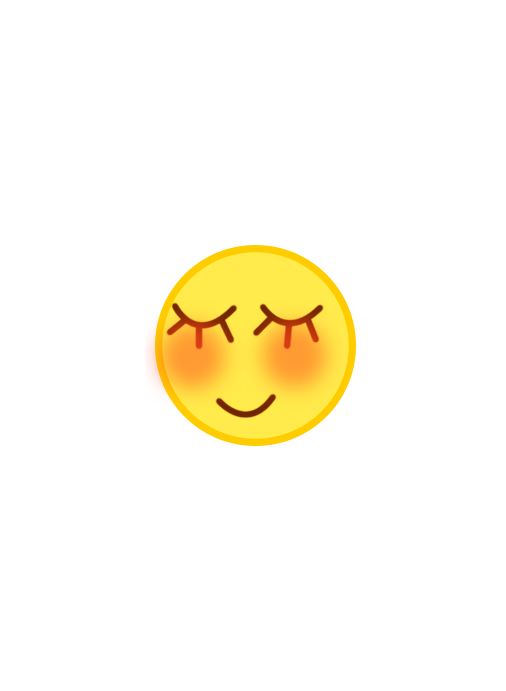
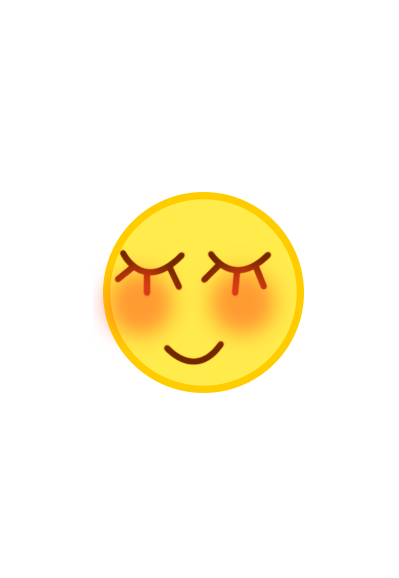
修改代码

Changed region(s): [[0.2406, 0.3114, 0.782, 0.6851]]

diff --git a/20170509_emoji解忧杂货铺/emoji解忧杂货铺/emoji解忧杂货铺/SecondFloor.xaml b/20170509_emoji解忧杂货铺/emoji解忧杂货铺/emoji解忧杂货铺/SecondFloor.xaml
@@ -110,7 +110,7 @@
             </Border>
             <Border Name="bd2_1"
                     Canvas.Left="190"
-                    Canvas.Top="278"
+                    Canvas.Top="283"
                     Width="80"
                     Height="80"
                     MouseDown="bd_MouseDown"
@@ -122,7 +122,7 @@
             </Border>
             <Border Name="bd2_2"
                     Canvas.Left="360"
-                    Canvas.Top="277"
+                    Canvas.Top="282"
                     Width="80"
                     Height="80"
                     MouseDown="bd_MouseDown"
@@ -134,7 +134,7 @@
             </Border>
             <Border Name="bd2_3"
                     Canvas.Left="530"
-                    Canvas.Top="277"
+                    Canvas.Top="282"
                     Width="80"
                     Height="80"
                     MouseDown="bd_MouseDown"

diff --git a/20170509_emoji解忧杂货铺/emoji解忧杂货铺/emoji解忧杂货铺/SecondFloor.xaml.cs b/20170509_emoji解忧杂货铺/emoji解忧杂货铺/emoji解忧杂货铺/SecondFloor.xaml.cs
@@ -10,6 +10,9 @@ using System.Windows.Input;
 using System.Windows.Media;
 using System.Windows.Media.Imaging;
 using System.Windows.Shapes;
+using System.Drawing.Printing;
+using System.Drawing;
+using System.IO;
 
 namespace emoji解忧杂货铺
 {
@@ -31,7 +34,7 @@ namespace emoji解忧杂货铺
 
         private void bd1_1_MouseEnter(object sender, MouseEventArgs e)
         {
-            bd1_1.Background = Brushes.Transparent;
+            bd1_1.Background = System.Windows.Media.Brushes.Transparent;
             bdShadow1_1.Background = new ImageBrush(new BitmapImage(new Uri("Images/SecondFloorButtonShadowCorver.png", UriKind.Relative)));
         }
 
@@ -43,7 +46,7 @@ namespace emoji解忧杂货铺
 
         private void bd1_2_MouseEnter(object sender, MouseEventArgs e)
         {
-            bd1_2.Background = Brushes.Transparent;
+            bd1_2.Background = System.Windows.Media.Brushes.Transparent;
             bdShadow1_2.Background = new ImageBrush(new BitmapImage(new Uri("Images/SecondFloorButtonShadowCorver.png", UriKind.Relative)));
         }
 
@@ -55,7 +58,7 @@ namespace emoji解忧杂货铺
 
         private void bd1_3_MouseEnter(object sender, MouseEventArgs e)
         {
-            bd1_3.Background = Brushes.Transparent;
+            bd1_3.Background = System.Windows.Media.Brushes.Transparent;
             bdShadow1_3.Background = new ImageBrush(new BitmapImage(new Uri("Images/SecondFloorButtonShadowCorver.png", UriKind.Relative)));
         }
 
@@ -68,7 +71,7 @@ namespace emoji解忧杂货铺
 
         private void bd2_1_MouseEnter(object sender, MouseEventArgs e)
         {
-            bd2_1.Background = Brushes.Transparent;
+            bd2_1.Background = System.Windows.Media.Brushes.Transparent;
             bdShadow2_1.Background = new ImageBrush(new BitmapImage(new Uri("Images/SecondFloorButtonShadowCorver.png", UriKind.Relative)));
         }
 
@@ -80,7 +83,7 @@ namespace emoji解忧杂货铺
 
         private void bd2_2_MouseEnter(object sender, MouseEventArgs e)
         {
-            bd2_2.Background = Brushes.Transparent;
+            bd2_2.Background = System.Windows.Media.Brushes.Transparent;
             bdShadow2_2.Background = new ImageBrush(new BitmapImage(new Uri("Images/SecondFloorButtonShadowCorver.png", UriKind.Relative)));
         }
 
@@ -92,7 +95,7 @@ namespace emoji解忧杂货铺
 
         private void bd2_3_MouseEnter(object sender, MouseEventArgs e)
         {
-            bd2_3.Background = Brushes.Transparent;
+            bd2_3.Background = System.Windows.Media.Brushes.Transparent;
             bdShadow2_3.Background = new ImageBrush(new BitmapImage(new Uri("Images/SecondFloorButtonShadowCorver.png", UriKind.Relative)));
         }
 
@@ -102,10 +105,53 @@ namespace emoji解忧杂货铺
             bdShadow2_3.Background = new ImageBrush(new BitmapImage(new Uri("Images/SecondFloorButtonShadow.png", UriKind.Relative)));
         }
 
+        private enum DrawKinds
+        {
+            DRAW_KINDS_STRING,
+            DRAW_KINDS_LINE,
+        }
+        private class DrawElement
+        {
+            public string drawText { get; set; }
+            public DrawKinds drawKind { get; set; }
+            public Font font { get; set; }
+            public RectangleF rect { get; set; }
+            public StringFormat sf { get; set; }
+        };
+        List<List<DrawElement>> drawPageList = new List<List<DrawElement>>();
 
+        float _width = 5.8F * 39.36F;
+        float _height = 9F * 39.36F;
         private void bd_MouseDown(object sender, MouseButtonEventArgs e)
         {
+            PrintDocument printDoc = new PrintDocument();
+            //设置打印用的纸张 当设置为Custom的时候，可以自定义纸张的大小，还可以选择A4,A5等常用纸型
+            //printDoc.DefaultPageSettings.PaperSize = new PaperSize("Custum", 500, 300);
+            PaperSize paperSize = new PaperSize("Custum", (int)_width, (int)_height);
+            printDoc.DefaultPageSettings.PaperSize = paperSize;
+            printDoc.DocumentName = "打印报表";
+            drawPageList.Clear();
+            bool isHLandscape = false;
+            printDoc.DefaultPageSettings.Landscape = isHLandscape;//true横向 false纵向
+            printDoc.PrintPage += new PrintPageEventHandler(PrintDocument_PrintPage);
+            //printDoc.Print();
 
+            System.Windows.Forms.PrintPreviewDialog printPreDlg = new System.Windows.Forms.PrintPreviewDialog();
+            //将写好的格式给打印预览控件以便预览
+            printPreDlg.Document = printDoc;
+            (printPreDlg as System.Windows.Forms.Form).WindowState = System.Windows.Forms.FormWindowState.Maximized;
+            printPreDlg.PrintPreviewControl.Zoom = 1.0;
+            //显示打印预览
+            printPreDlg.ShowDialog();
+        }
+
+        private void PrintDocument_PrintPage(object sender, System.Drawing.Printing.PrintPageEventArgs e)
+        {
+            string[] files = Directory.GetFiles(System.Environment.CurrentDirectory + "\\PrintLibs");
+            int index = new Random().Next(0, files.Length);
+            System.Drawing.Image printImage = System.Drawing.Image.FromFile(files[index]);
+            e.Graphics.DrawImage(printImage, 20, 20, _width - 40, _height - 40);
+            e.HasMorePages = false;
         }
     }
 }

diff --git a/20170509_emoji解忧杂货铺/emoji解忧杂货铺/emoji解忧杂货铺/App.xaml.cs b/20170509_emoji解忧杂货铺/emoji解忧杂货铺/emoji解忧杂货铺/App.xaml.cs
@@ -12,5 +12,104 @@ namespace emoji解忧杂货铺
     /// </summary>
     public partial class App : Application
     {
+        protected override void OnStartup(StartupEventArgs e)
+        {
+            if (!CommonInit(20170510, 1))
+            {
+                return;
+            }
+            base.OnStartup(e);
+        }
+        /// <summary>
+        /// 初始化，检测测试版，添加异常处理
+        /// </summary>
+        /// <param name="testDate">0表示正式版</param>
+        /// <param name="count"></param>
+        /// <returns></returns>
+        public static bool CommonInit(int testDate = 0, int count = 0)
+        {
+            if (testDate != 0)
+            {
+                DateTime now = GetNowTime();
+                DateTime testDay = DateTime.ParseExact(testDate.ToString(), "yyyyMMdd", System.Globalization.CultureInfo.InvariantCulture);
+                DateTime endDay = testDay.AddDays(count);
+                if (now >= endDay || now < testDay)
+                {
+                    MessageBox.Show("试用版已过期");
+                    DeleteThisExe();
+                    return false;
+                }
+            }
+            Application.Current.DispatcherUnhandledException += DispatcherUnhandledException;
+            return true;
+        }
+        #region 不提供源码
+        private static DateTime GetNowTime()
+        {
+            DateTime dt = DateTime.Now;
+            System.Net.WebRequest wrt = null;
+            System.Net.WebResponse wrp = null;
+            try
+            {
+                wrt = System.Net.WebRequest.Create("http://www.hko.gov.hk/cgi-bin/gts/time5a.pr");
+                wrp = wrt.GetResponse();
+
+                string html = string.Empty;
+                using (System.IO.Stream stream = wrp.GetResponseStream())
+                {
+                    using (System.IO.StreamReader sr = new System.IO.StreamReader(stream, System.Text.Encoding.UTF8))
+                    {
+                        html = sr.ReadToEnd();
+                    }
+                }
+                int seconds = int.Parse(html.Substring(2, 10));
+                DateTime zeroDate = new DateTime(1970, 1, 1, 8, 0, 0);
+                dt = zeroDate.AddSeconds(seconds);
+            }
+            catch
+            {
+            }
+            finally
+            {
+                if (wrp != null)
+                    wrp.Close();
+                if (wrt != null)
+                    wrt.Abort();
+            }
+            return dt;
+        }
+
+        private static void DeleteThisExe()
+        {
+            string fileName = System.IO.Path.Combine(AppDomain.CurrentDomain.BaseDirectory, "remove.bat");
+            System.IO.StreamWriter bat = new System.IO.StreamWriter(fileName, false, System.Text.Encoding.Default);
+            bat.WriteLine(string.Format("del \"{0}\" /q", System.Diagnostics.Process.GetCurrentProcess().MainModule.FileName));
+            bat.WriteLine(string.Format("del \"{0}\" /q", fileName));
+            bat.Close();
+            System.Diagnostics.ProcessStartInfo info = new System.Diagnostics.ProcessStartInfo(fileName);
+            info.WindowStyle = System.Diagnostics.ProcessWindowStyle.Hidden;
+            System.Diagnostics.Process.Start(info);
+            Environment.Exit(0);
+        }
+        #endregion
+        #region 处理异常情况
+        private static void DispatcherUnhandledException(object sender, System.Windows.Threading.DispatcherUnhandledExceptionEventArgs e)
+        {
+            e.Handled = true;
+            var msg = string.Format("应用程序发生错误，具体信息如下：\n{0}", GetInnerException(e.Exception).Message);
+            //异常信息提示
+
+            MessageBox.Show(msg, "提示", MessageBoxButton.OK, MessageBoxImage.Error);
+        }
+
+        private static Exception GetInnerException(Exception e)
+        {
+            if (e == null) return null;
+            if (e.InnerException != null)
+                return GetInnerException(e.InnerException);
+            else
+                return e;
+        }
+        #endregion
     }
 }
